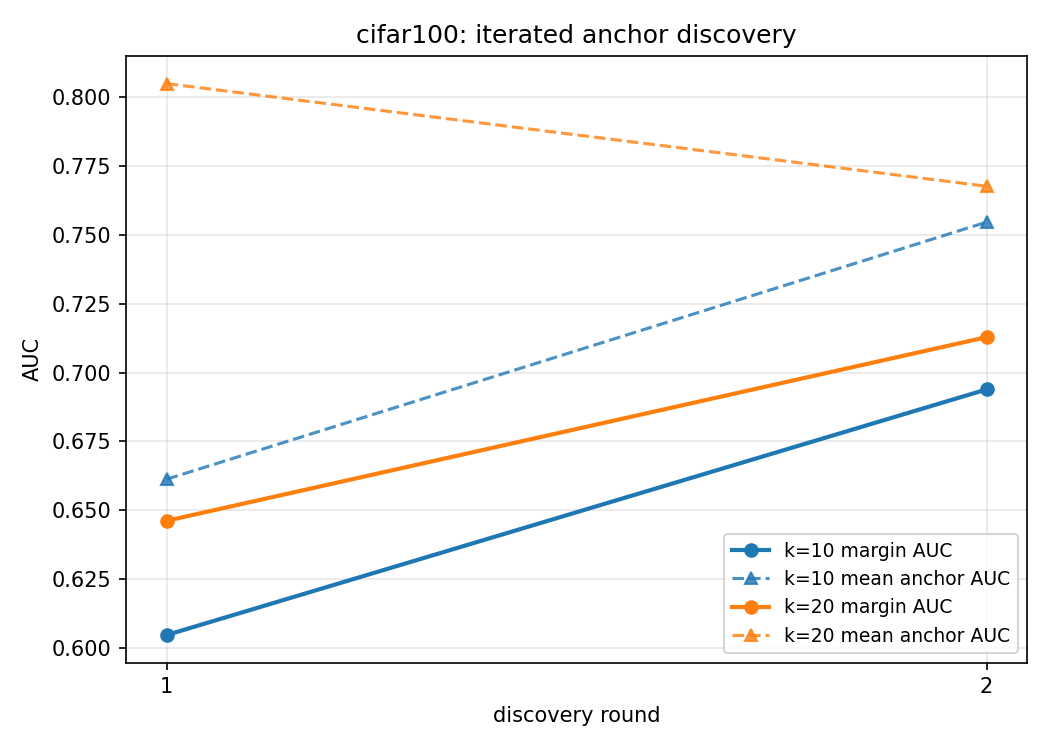
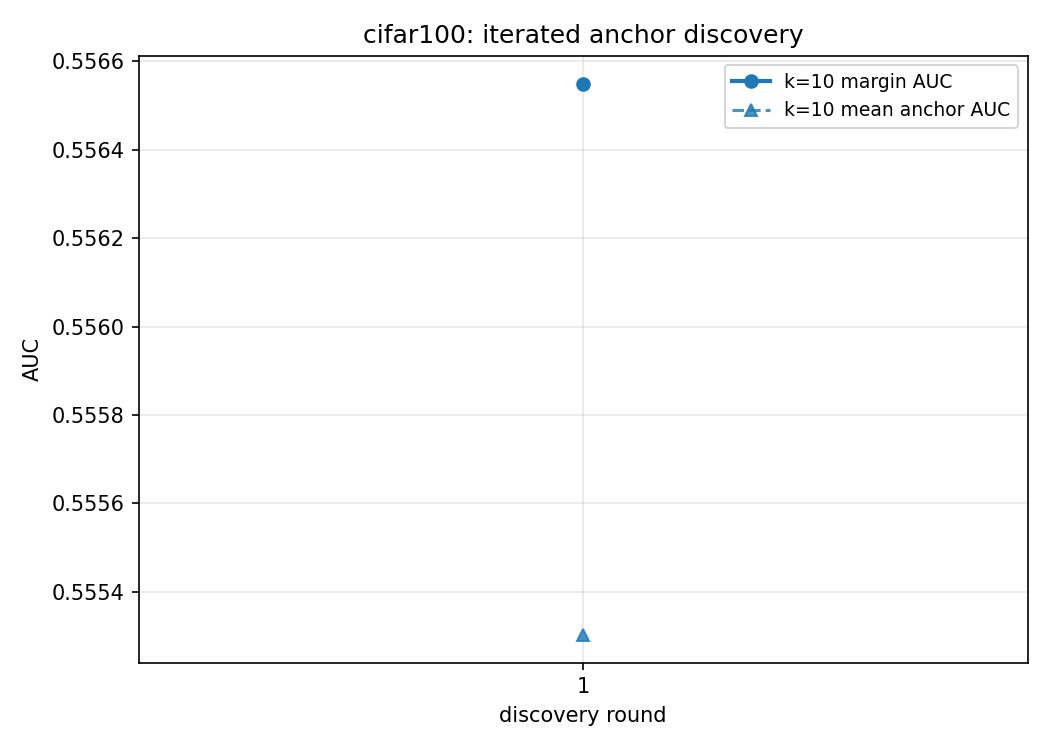
Iterated CIFAR-100 discovery at 32 dims
--emb-dim/--sigreg-weight overrides in experiment 24.  32d matches or
beats 100d for discovery (k=10 purity 0.142 vs 0.095, anchors 0.789 vs
0.661, best k=10 margin 0.708 after round 2); k=20 a wash.  Better
covariance conditioning outweighs anchor crowding for this task.

diff --git a/experiments/24_iterated_anchors.py b/experiments/24_iterated_anchors.py
@@ -101,11 +101,16 @@ def main():
     ap.add_argument("--ks", default=None)
     ap.add_argument("--tau-quantile", type=float, default=0.95)
     ap.add_argument("--kmax", type=int, default=4)
+    ap.add_argument("--emb-dim", type=int, default=None)
+    ap.add_argument("--sigreg-weight", type=float, default=None)
+    ap.add_argument("--out-tag", default="")
     args = ap.parse_args()
     ds_name = args.dataset
     n_classes = 100 if ds_name == "cifar100" else 10
-    emb_dim = 100 if ds_name == "cifar100" else 16
+    emb_dim = args.emb_dim or (100 if ds_name == "cifar100" else 16)
     w, slices = (1.0, 64) if ds_name == "cifar100" else (20.0, 256)
+    if args.sigreg_weight is not None:
+        w = args.sigreg_weight
     pretrain = ds_name
     holdout_sets = HOLDOUT_SETS_ALL[ds_name]
     ks = [int(x) for x in (args.ks or ("1,2,3" if ds_name == "cifar10"
@@ -223,8 +228,8 @@ def main():
     plt.xlabel("discovery round"); plt.ylabel("AUC")
     plt.title(f"{ds_name}: iterated anchor discovery")
     plt.legend(fontsize=9); plt.grid(alpha=0.3); plt.tight_layout()
-    plt.savefig(plot_path(f"iterated_anchors_{ds_name}.png"), dpi=150); plt.close()
-    print(f"\n  saved {plot_path(f'iterated_anchors_{ds_name}.png')}")
+    plt.savefig(plot_path(f"iterated_anchors_{ds_name}{args.out_tag}.png"), dpi=150); plt.close()
+    print(f"\n  saved {plot_path(f'iterated_anchors_{ds_name}{args.out_tag}.png')}")
     print("Done.")
 
 

diff --git a/README.md b/README.md
@@ -603,6 +603,14 @@ dip (0.805 → 0.768) exposes the one design gap: each round appends k̂ new
 anchors without merging, so 44 anchors fragment 20 classes — anchor
 merge/pruning is the natural next refinement.
 
+At a smaller width (`--emb-dim 32`, same CIFAR-100 protocol) discovery is as
+good or better despite the anchor crowding: k=10 round 1 pool purity 0.142 vs
+0.095 at 100d and mean anchor AUC 0.789 vs 0.661, with the best CIFAR-100
+label-free margin of the series after round 2 (0.708); k=20 is a wash (margin
+0.65 flat, anchors 0.73 → 0.78).  The better-conditioned covariance at 32d
+outweighs the crowding penalty for discovery, at a third of the compute —
+though neither width approaches the calibrated CIFAR-10 regime.
+
 
 100 classes need room: at 32 dims the means cannot be orthogonal, repulsion can
 only push them to ~4σ minimum spacing, and both methods lose ~20 AUC points on